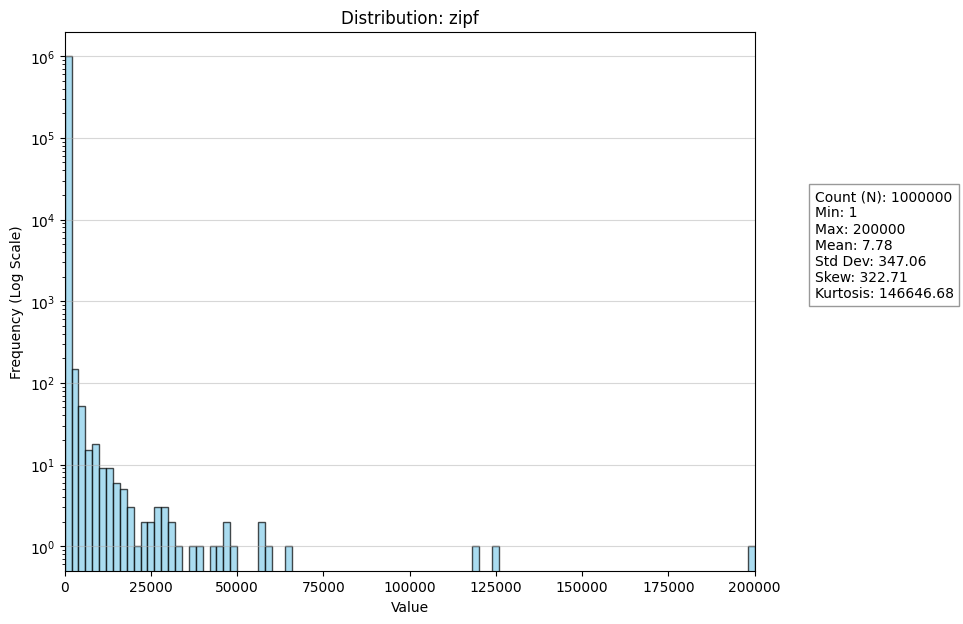
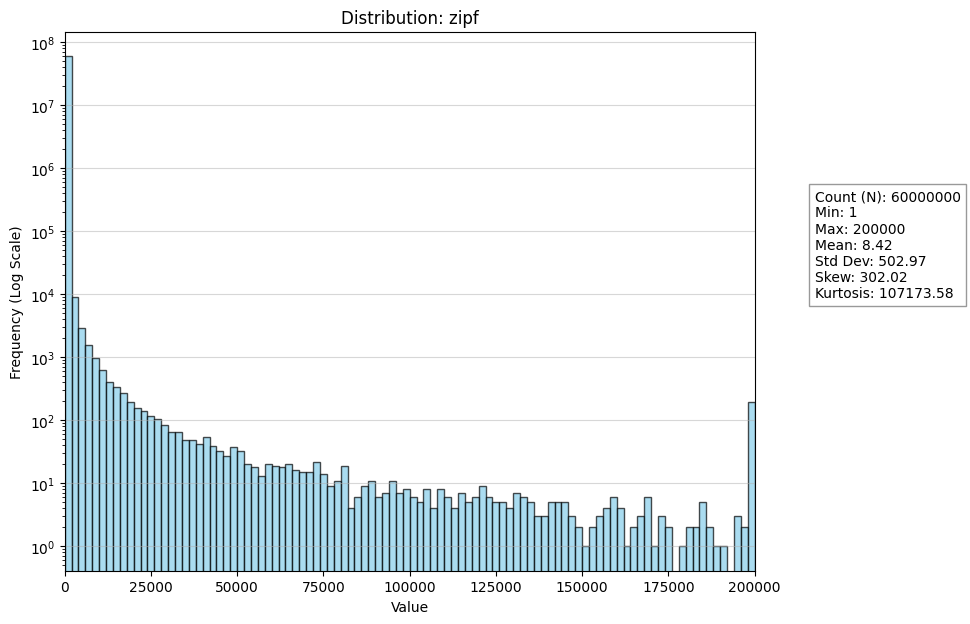
feat: Refactor imports to streamline module structure and add utility functions for data processing

Changed region(s): [[0.0312, 0.0, 0.81, 1.0], [0.8411, 0.3045, 0.9969, 0.4872]]

diff --git a/benchmark_sheet.py b/benchmark_sheet.py
@@ -13,7 +13,7 @@ from models.evaluation import summarize
 
 def run_benchmark():
     distributions = ['uniform', 'normal', 'zipf', 'sparse_cluster', 'anti_zipf']
-    rows = 1_000_000
+    rows = 60_000_000
     eval_n = 100_000
     seed = 42
     rnd = np.random.default_rng(seed)
@@ -48,7 +48,7 @@ def run_benchmark():
         # Model 1: Equi-Width
         # -----------------------------------
         t0 = time.perf_counter()
-        ew = EquiWidthHistogram.build(mn, mx, n_bins, freq, ndv_threshold=200)
+        ew = EquiWidthHistogram.build(mn, mx, n_bins, freq, ndv_threshold=5)
         t_build_ew = time.perf_counter() - t0
         
         # -----------------------------------
